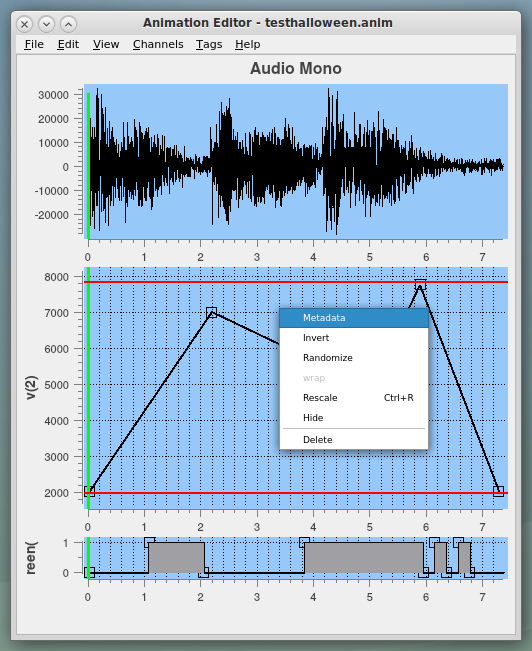
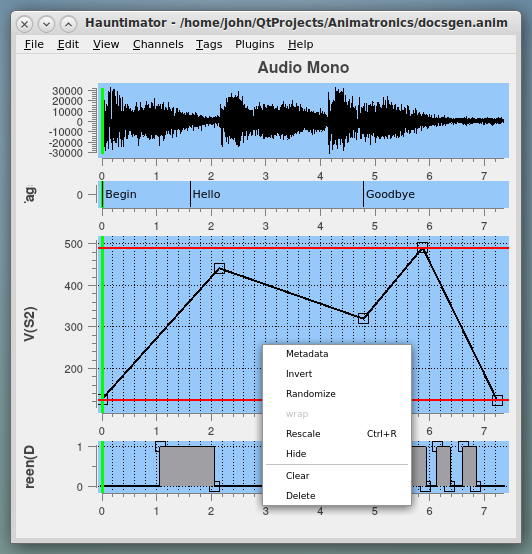
Implemented optional scrolling for channel pane area

diff --git a/MainWindow.py b/MainWindow.py
@@ -31,6 +31,7 @@ SystemPreferences = {
 'ServoDefaultMaximum':65535,    # Default maximum servo setting
 'AutoSave':True,                # Perfrom saving automatically flag
 'ShowTips':True,                # Show tool tips flag
+'Scrollable':True,              # Use scrollable area with fixed pane heights
 'ServoDataFile':'servotypes',   # Name of file containing predefined servos
 'UploadPath':'/sd/anims/',      # Name of upload directory on controller
 'TTYPortRoot':'/dev/ttyACM',    # Root of tty port for usb comm
@@ -42,6 +43,7 @@ SystemPreferenceTypes = {
 'ServoDefaultMaximum':'int',
 'AutoSave':'bool',
 'ShowTips':'bool',
+'Scrollable':'bool',
 'ServoDataFile':'str',
 'UploadPath':'str',
 'TTYPortRoot':'str',
@@ -1447,6 +1449,10 @@ class ChannelPane(qwt.QwtPlot):
         # Set up palettes for selected and not selected
         self._unselectedPalette = self.palette()
         backcolor = QColor()
+        backcolor.setRgb(150, 200, 250)
+        self._unselectedPalette.setColor(self.backgroundRole(), backcolor)
+        self.setPalette(self._unselectedPalette)
+        backcolor = QColor()
         backcolor.setRgb(100, 200, 100)
         self._selectedPalette = QPalette()
         self._selectedPalette.setColor(self.canvas().backgroundRole(), backcolor)
@@ -1560,6 +1566,12 @@ class ChannelPane(qwt.QwtPlot):
         """
         # Do not allow resizing on digital channels
         if self.channel.type == Channel.DIGITAL: return
+
+        # Do not allow resizing when in scrollbar mode
+        if self.holder is None:
+            if SystemPreferences['Scrollable']: return
+        else:
+            if not self.holder.paneScrollable: return
 
         numDegrees = event.angleDelta() / 8
         vertDegrees = numDegrees.y()
@@ -3370,6 +3382,7 @@ class MainWindow(QMainWindow):
         self.lastDeltaX = 0.0
         self.lastDeltaY = 0.0
         self.repCount = 0
+        self.paneScrollable = False
 
         self.lastNoted = None
 
@@ -3429,6 +3442,8 @@ class MainWindow(QMainWindow):
         self._playwidget.addTimeChangedCallback(self.livePlay)
         self._playwidget.hide()
         tlayout = QVBoxLayout(self._mainarea)
+        #tlayout.setSpacing(1)
+        #tlayout.setContentsMargins(1, 1, 1, 1)
         tlayout.addWidget(self._playwidget)
 
         # Create shortcut to play animation on controller
@@ -3447,15 +3462,9 @@ class MainWindow(QMainWindow):
             if SystemPreferences['ShowTips']: self._plotarea.setToolTip(
                 'Ctrl-N to add a new servo channel or\nCtrl-D to add a new digital channel')
 
-        # Set the background color
-        p = self._plotarea.palette()
-        backcolor = QColor()
-        backcolor.setRgb(150, 200, 250)
-        p.setColor(self.backgroundRole(), backcolor)
-        self._plotarea.setPalette(p)
-
         # Create layout to hold all the channels
         layout = QVBoxLayout(self._plotarea)
+        layout.setSpacing(0)
         layout.setContentsMargins(0, 0, 0, 0)
 
         # Remove all existing plot channels
@@ -3468,6 +3477,13 @@ class MainWindow(QMainWindow):
             xdata, leftdata, rightdata = self.animatronics.newAudio.getPlotData(self.audioMin,self.audioMax,4000)
             if rightdata is None:
                 newplot = qwt.QwtPlot('Audio Mono')
+                # Set the background color
+                p = newplot.palette()
+                backcolor = QColor()
+                backcolor.setRgb(150, 200, 250)
+                p.setColor(self.backgroundRole(), backcolor)
+                newplot.setPalette(p)
+
                 newplot.setPlotLayout(LeftAlignLayout())
                 newplot.mousePressEvent = self.localmousePressEvent
                 newplot.mouseMoveEvent = self.localmouseMoveEvent
@@ -3476,13 +3492,20 @@ class MainWindow(QMainWindow):
                     )
                 layout.addWidget(newplot)
                 self.audioPlot = newplot
-                self.audioPlot.setMaximumHeight(200)
+                self.audioPlot.setFixedHeight(120)
                 if SystemPreferences['ShowTips']: self.audioPlot.setToolTip('Click and drag Ctrl-Left mouse button\nup/down to zoom and left/right to scroll')
                 # Add visibility checkbox to menu as visible initially
                 self._show_audio_menu.addAction(self._showmono_audio_action)
                 self._showmono_audio_action.setChecked(True)
             else:
                 newplot = qwt.QwtPlot('Audio Left')
+                # Set the background color
+                p = newplot.palette()
+                backcolor = QColor()
+                backcolor.setRgb(150, 200, 250)
+                p.setColor(self.backgroundRole(), backcolor)
+                newplot.setPalette(p)
+
                 newplot.setPlotLayout(LeftAlignLayout())
                 newplot.mousePressEvent = self.localmousePressEvent
                 newplot.mouseMoveEvent = self.localmouseMoveEvent
@@ -3491,12 +3514,19 @@ class MainWindow(QMainWindow):
                     )
                 layout.addWidget(newplot)
                 self.audioPlot = newplot
-                self.audioPlot.setMaximumHeight(150)
+                self.audioPlot.setFixedHeight(120)
                 if SystemPreferences['ShowTips']: self.audioPlot.setToolTip('Click and drag Ctrl-Left mouse button\nup/down to zoom and left/right to scroll')
                 # Add visibility checkbox to menu as visible initially
                 self._show_audio_menu.addAction(self._showleft_audio_action)
                 self._showleft_audio_action.setChecked(True)
                 newplot = qwt.QwtPlot('Audio Right')
+                # Set the background color
+                p = newplot.palette()
+                backcolor = QColor()
+                backcolor.setRgb(150, 200, 250)
+                p.setColor(self.backgroundRole(), backcolor)
+                newplot.setPalette(p)
+
                 newplot.setPlotLayout(LeftAlignLayout())
                 newplot.mousePressEvent = self.localmousePressEvent
                 newplot.mouseMoveEvent = self.localmouseMoveEvent
@@ -3505,7 +3535,7 @@ class MainWindow(QMainWindow):
                     )
                 layout.addWidget(newplot)
                 self.audioPlotRight = newplot
-                self.audioPlotRight.setMaximumHeight(150)
+                self.audioPlotRight.setFixedHeight(120)
                 if SystemPreferences['ShowTips']: self.audioPlotRight.setToolTip('Click and drag Ctrl-Left mouse button\nup/down to zoom and left/right to scroll')
                 # Add visibility checkbox to menu as visible initially
                 self._show_audio_menu.addAction(self._showright_audio_action)
@@ -3544,16 +3574,46 @@ class MainWindow(QMainWindow):
 
         # Add the tags pane here
         self.tagPlot = TagPane(self, self.animatronics.tags, self)
+        self.tagPlot.setFixedHeight(60)
+        # Set the background color
+        p = self.tagPlot.palette()
+        backcolor = QColor()
+        backcolor.setRgb(150, 200, 250)
+        p.setColor(self.backgroundRole(), backcolor)
+        self.tagPlot.setPalette(p)
+
         self.tagPlot.setPlotLayout(LeftAlignLayout())
         self.tagPlot.redrawTags(self.lastXmin, self.lastXmax)
         layout.addWidget(self.tagPlot)
+
+        if SystemPreferences['Scrollable']:
+            tscroll = QScrollArea()
+            self.scrollArea = tscroll
+            self.viewportCallback = tscroll.viewportEvent
+            tscroll.setLineWidth(0)
+            tscroll.setFrameShape(QFrame.NoFrame)
+            tscroll.viewportEvent = self.viewportEvent
+            layout.addWidget(tscroll)
+            tframe = QFrame()
+            tscroll.setWidget(tframe)
+            tscroll.setWidgetResizable(True)
+            layout = QVBoxLayout(tframe)
+            layout.setSpacing(5)
+            layout.setContentsMargins(0, 5, 0, 5)
+        else:
+            tframe = self._plotarea
+            self.scrollArea = None
 
         # Add panes for all the channels
         channelList = self.animatronics.channels
 
         for channel in channelList:
             chan = self.animatronics.channels[channel]
-            newplot = ChannelPane(self._plotarea, chan, mainwindow=self)
+            newplot = ChannelPane(tframe, chan, mainwindow=self)
+            if chan.type == Channel.DIGITAL:
+                newplot.setFixedHeight(75)
+            else:
+                newplot.setFixedHeight(200)
             newplot.setPlotLayout(LeftAlignLayout())
             newplot.settimerange(self.lastXmin, self.lastXmax)
             if len(chan.knots) == 0:
@@ -3566,6 +3626,24 @@ class MainWindow(QMainWindow):
 
         self._playwidget.setRange(self.lastXmin, self.lastXmax)
         self.setSlider(self.lastXmin)
+
+    def viewportEvent(self, event):
+        # Do all the underlying stuff
+        self.viewportCallback(event)
+
+        # Resize upper panes to match viewport width
+        if self.scrollArea is None: return
+        if event.type() == QEvent.Resize:
+            vp = self.scrollArea.viewport()
+            width = vp.size().width()
+            self.tagPlot.setFixedWidth(width)
+            self.audioPlot.setFixedWidth(width)
+            if self.audioPlotRight is not None:
+                self.audioPlotRight.setFixedWidth(width)
+            # Enable wheel in channel pane iff no scrollbar is present
+            sb = self.scrollArea.verticalScrollBar()
+            self.paneScrollable = not sb.isVisible()
+        return True
 
     def getUsedNumericPorts(self):
         usedPorts = []

diff --git a/docs/Help.md b/docs/Help.md
@@ -303,6 +303,7 @@ to files and communication.  The individual preferences are:
 + ServoDefaultMaximum - If the user has installed PCA9685 boards in their hardware, they expect values in the range 0 to 4095 for servo control.  Other boards may use other values.  GPIO pins on a Pico assume that servos take a value between 0 and 65535.  Hauntimator treats all servos the same and assumes that the controller software will shift the values to the appropriate range.  Thus, the typical value here is 65535 and the controller shifts that to a range of 0-4095 prior to entering it into the PCA9685.
 + AutoSave - Controls saving of the animation every time an edit is made.  The saved copy of the animation is stored in a file with the same name as the animation with ".autosave" appended or in a file named "unnamedfile.anim.autosave" if the animation has never been named.
 + ShowTips - Controls the use of popup tool tips within Hauntimator.  Beginning users may find the popup tips helpful while an experienced user may find them bothersome.  Some go away automatically so hopefully they will not prove to be obnoxious.
++ Scrollable - Controls the enabling of a scrollable area to hold the channel panes.  Default is True.  Useful if more channels than will fit on the screen.  Uses mouse wheel to scroll up and down so it disables use of mouse wheel to zoom individual panes when the scrollbar is visible.  Also allows channels outside the viewable area to be edited even though they are not visible so some care is needed.
 + ServoDataFile - The name of the file containing known servo types and their associated information.  The user may rename this file or move it so the preference allows that.  The values in the servo file are used to set initial limits on the channel values.  These are based on the ServoDefaultMaximum and ServoDefaultMinimum and the duty cycle of the servo from the file.  These are NOT used to distinguish servos on GPIO pins from servos on PCA9685 boards.  That is done within the controller.
 + UploadPath - The name of the directory to upload audio and control files to as it is used in the controller software.  The Pico software that accompanies the Hauntimator and is run on the Pico looks for a particular file and this must match that.  This will typically be on the SD card and look like "/sd/anims" to match expectations in the controller software.  If the controller software is edited, this can be changed to match.  Note that this is irrelevant if writing files locally to an SD card to be transferred later to the controller.
 + TTYPortRoot - This is most of the name of the communications port to use to talk to the controller when it is plugged into the USB port on the computer that Hauntimator runs on.  Under linux, this is typically /dev/ttyACM0 but may also be /dev/ttyACM1, 2, ... so the TTYPortRoot is set to /dev/ttyACM.  On a Mac it is more like /dev/tty00bb10 so the TTYPortRoot is set to /dev/tty00bb1.  Under Windows it is something I don't care about.  Note that this is irrelevant if writing files locally to an SD card to be transferred later to the controller and otherwise not using Hauntimator to talk directly to the controller.
@@ -575,7 +576,7 @@ channels are always ranged from 0 to 1 so the limits are not explicitly displaye
 in a digital channel pane will place the point at the nearest limit, either 0 or 1.
 
 The displayed vertical range of the channel pane can be adjusted by rotating the mouse wheel with the
-cursor within the pane.
+cursor within the pane if no scrollbar is visible.
 
 ![Channel Pane Menu](images/channelpopup.png)
 
